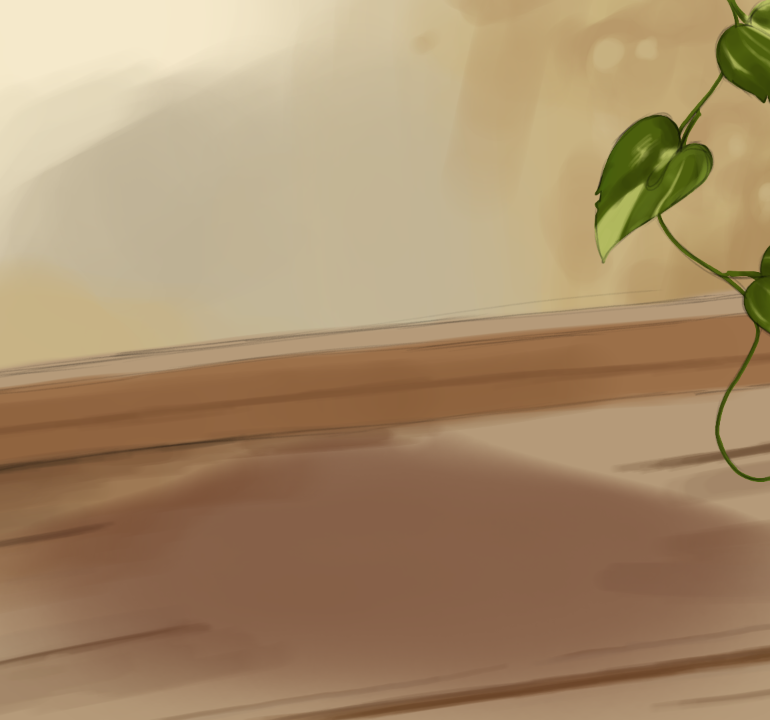
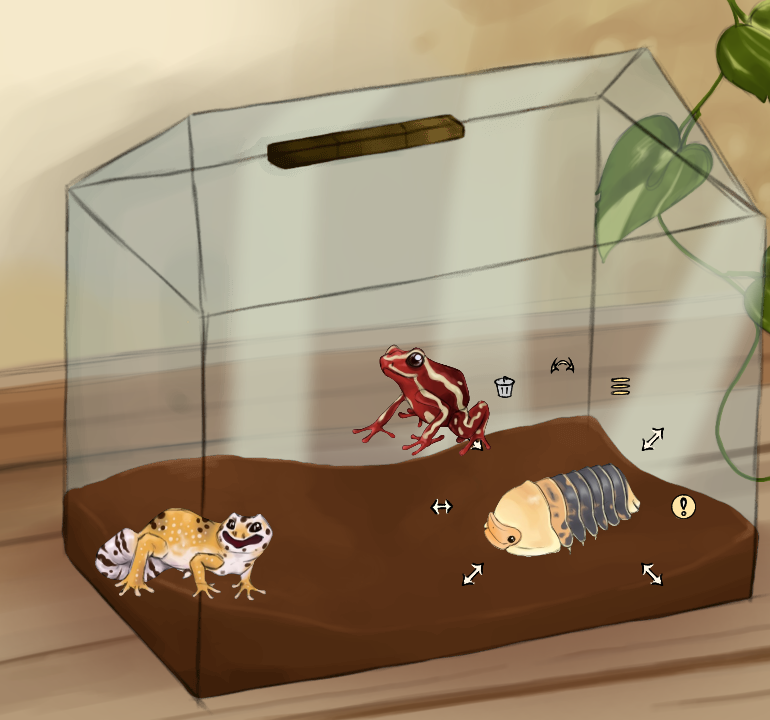
cleanups

diff --git a/to do.md b/to do.md
@@ -83,3 +83,12 @@ Future goals:
 
 * Double click on the resize button to scale the image while keeping the aspect ratio
 
+
+
+Bugs: (either fix or avoid showing)
+
+
+
+* Deleting an asset and having it delete from the reorder menu
+* Resizing breaks stuff for some reason idrk why
+
